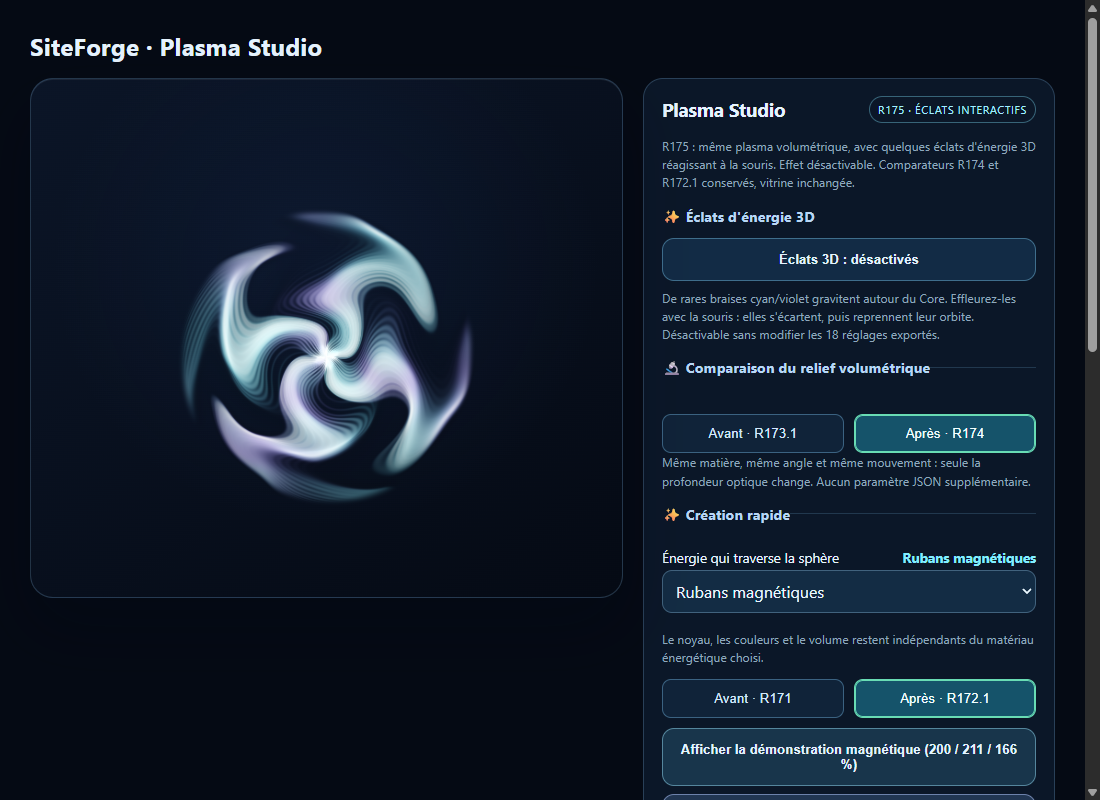
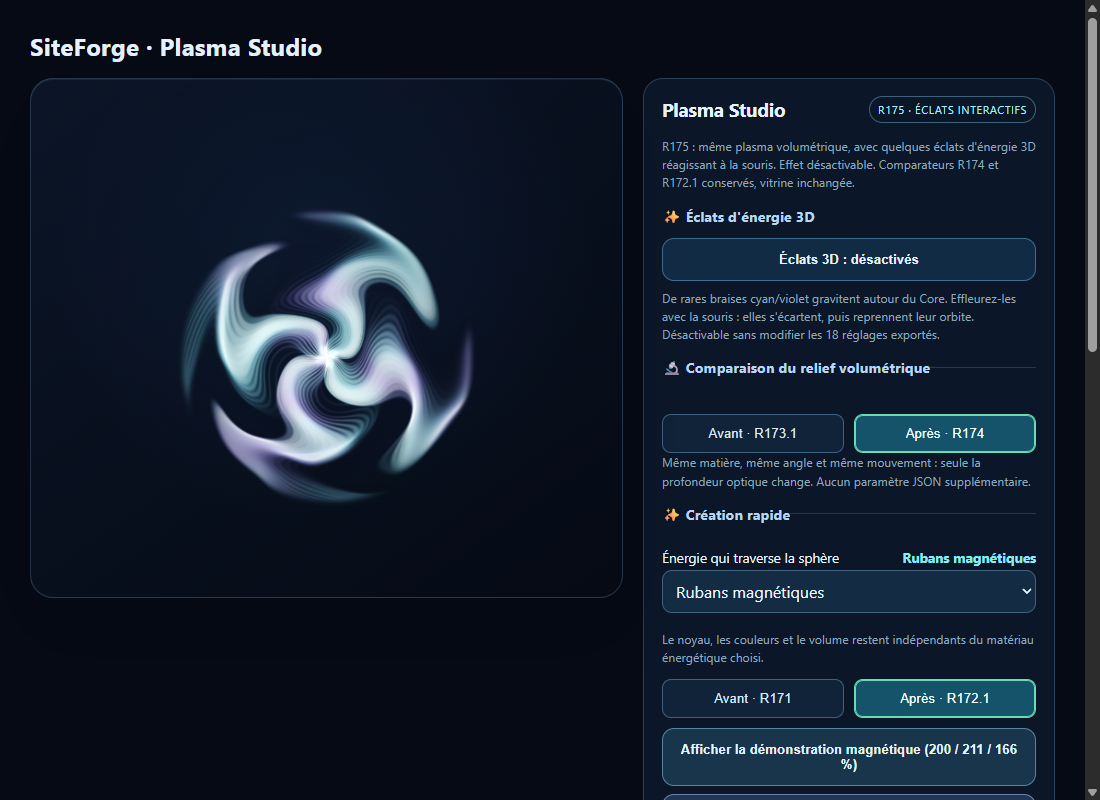
R175 lab: make sparse cyan/violet motes legible without altering plasma (176 tests, Chrome E2E)

Changed region(s): [[0.1545, 0.25, 0.4327, 0.625]]

diff --git a/assets/siteforge-lab-r166-flow.js b/assets/siteforge-lab-r166-flow.js
@@ -218,9 +218,9 @@ void main(){
   // Parallax: near motes grow and drift faster than far motes.
   p.xy*=1.+.16*moteDepth;
   vec2 away=p.xy-uPointer.xy;
-  float proximity=1.-smoothstep(.06,.33,length(away));
-  p.xy+=away/max(length(away),.008)*proximity*.29*uPointer.z;
-  life=(.55+.38*rnd(i+11.))*(.78+.22*moteDepth*.5)*uPointer.w;
+  float proximity=1.-smoothstep(.07,.40,length(away));
+  p.xy+=away/max(length(away),.008)*proximity*.38*uPointer.z;
+  life=(.73+.27*rnd(i+11.))*(.81+.19*smoothstep(-1.,1.,moteDepth))*uPointer.w;
   vAxis=vec2(cos(polar),sin(polar));sizeFactor=.78+.35*moteDepth;
  }else if(uPass>2.5){
   float ang=a+t*.32;
@@ -249,7 +249,7 @@ void main(){
  vLife=life;vGlint=.65+.35*rnd(i*3.17+19.);
  gl_PointSize=clamp((3.2+4.5*rnd(i+8.))*uEffects.z*sizeFactor*
        uResolution.y/460.*mix(1.85,1.,uLayer),1.,29.);
- if(uPass>4.5)gl_PointSize=clamp((7.0+9.0*rnd(i+8.))*(.85+.23*depth)*uResolution.y/518.,5.,18.);
+ if(uPass>4.5)gl_PointSize=clamp((11.0+9.0*rnd(i+8.))*(.90+.14*depth)*uResolution.y/518.,6.,22.);
  gl_Position=vec4(p.x*uResolution.y/max(uResolution.x,1.),p.y-.08,0.,1.);
 }
 `;
@@ -283,13 +283,18 @@ void main(){
  p.x*=uResolution.x/max(uResolution.y,1.);p.y+=.08;
  float radius=.64*clamp(uShape.x,.5,1.5);
  if(uPass>4.5){
-  // Soft 3D ember, subtly colored; never a bright full-frame starfield.
+  // R175 optical pass: sparse but legible directional sparks, not a starfield.
   vec2 q=gl_PointCoord*2.-1.;
   float r2=dot(q,q);
-  float coreGlow=exp(-r2*13.0),aura=exp(-r2*4.4);
-  float alpha=(coreGlow*.92+aura*.40)*vLife*clamp(uEffects.w,0.,1.);
-  vec3 col=mix(uCyan,uViolet,.18+.68*vGlint);
-  gl_FragColor=vec4(col*(coreGlow*1.32+aura*.42)*vLife,alpha);
+  vec2 axis=normalize(vAxis);
+  float along=dot(q,axis),across=dot(q,vec2(-axis.y,axis.x));
+  float coreGlow=exp(-r2*29.0),aura=exp(-r2*4.7);
+  float filament=exp(-across*across*23.0-along*along*4.5);
+  float alpha=clamp(coreGlow*.82+filament*.45+aura*.33,0.,1.)*vLife*clamp(uEffects.w,0.,1.);
+  float hue=step(.5,fract(vGlint*7.73));
+  vec3 col=mix(uCyan,uViolet*1.50+uCyan*.10,hue);
+  vec3 hot=mix(col,vec3(.86,.97,1.),.24);
+  gl_FragColor=vec4(col*(aura*.55+filament*.58)+hot*coreGlow*1.44,alpha);
   return;
  }
  if(uPass>3.5&&uPass<4.5){

diff --git a/reasoning/SITEFORGE_R175_OPTICAL_READABILITY_DECISION_20261028.md b/reasoning/SITEFORGE_R175_OPTICAL_READABILITY_DECISION_20261028.md
@@ -1,0 +1,7 @@
+# SiteForge R175 — lisibilite des eclats 3D (laboratoire)
+
+Decision: conserver exactement 46/28 eclats cyan/violet; ameliorer uniquement leur forme lumineuse et la portee de repulsion dans le pass GPU deja present. Une augmentation du nombre de particules aurait surcharge le plasma. Le fragment des eclats utilise un filament directionnel, une aura moderee et un noyau colore; 18 reglages exportes et les six materiaux restent inchanges.
+
+Tests: 176 tests SiteForge cibles PASS, Chrome ANGLE SwiftShader reel PASS (six materiaux, mobile 390px, orbite souris/tactile, A/B, toggle, repulsion); diff de capture entire: 4 222 / 880 000 pixels. Suite globale non qualifiee: assertions historiques de vitrine echouent. Etape de controle esthetique proprietaire encore PENDING; Cloudflare / vitrine officielle inchanges.
+
+Evidence: evidence/SITEFORGE_R175_OPTICAL_READABILITY_20261028.json. Rollback: commit R175 5ed671ca8fbb32b3a4ecabb412c23009871ff3c7. Aucune fusion dans main.
